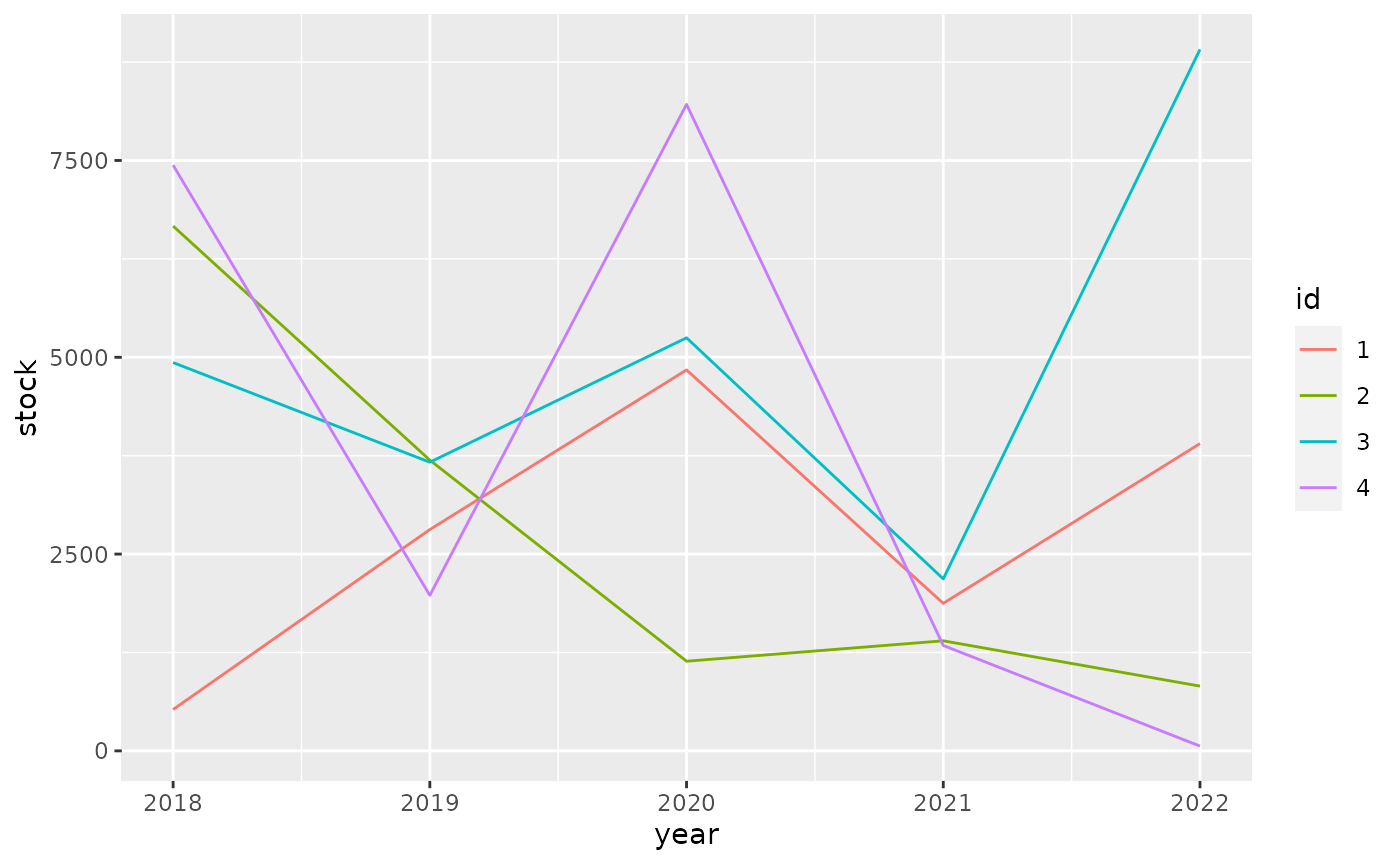
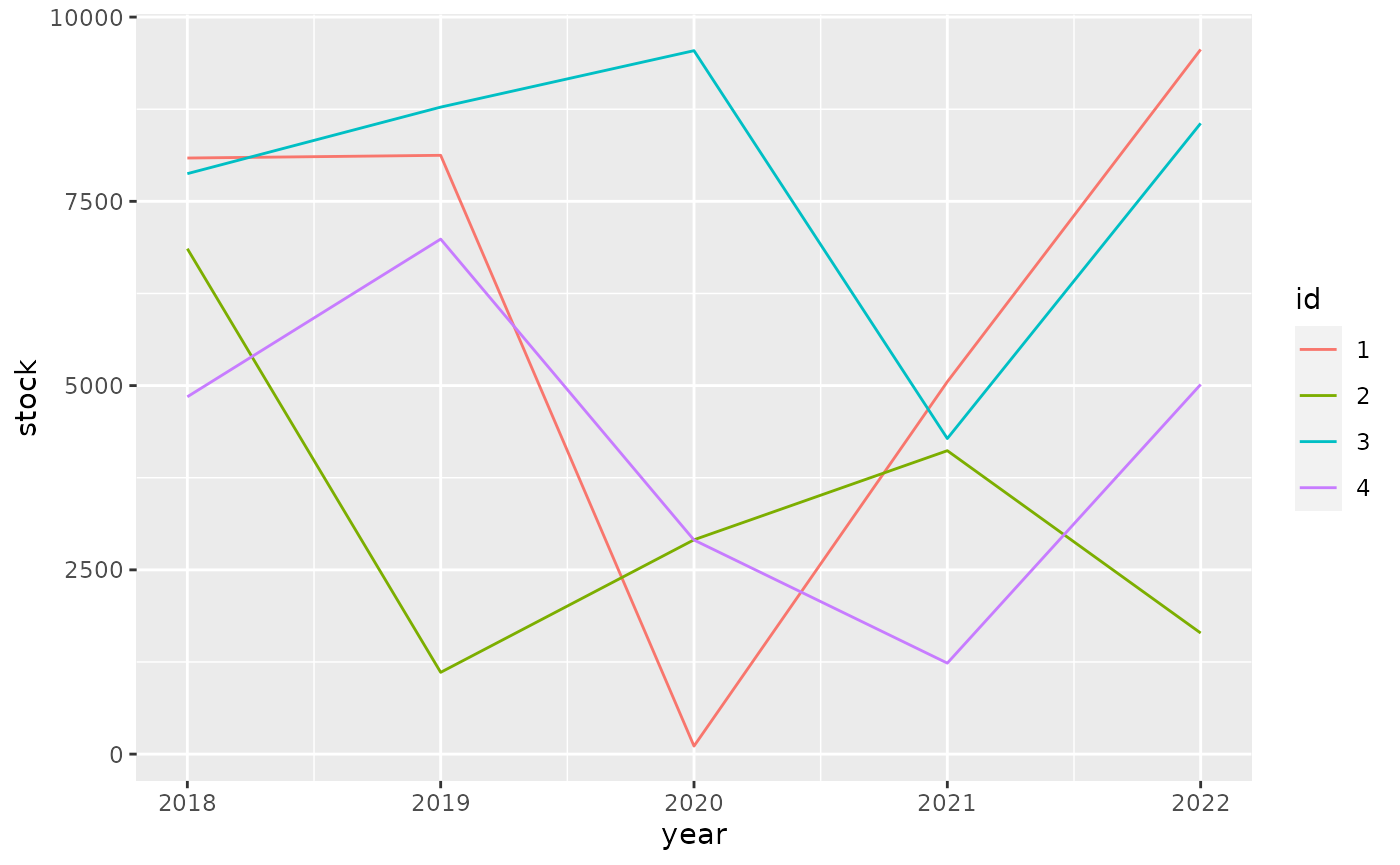
Built site for tibble: 3.1.6.9000@eac1191

diff --git a/dev/articles/formats.html b/dev/articles/formats.html
@@ -227,10 +227,10 @@
 <span class="co">#&gt; <span style="color: #949494;"># A tibble: 4 × 6</span></span>
 <span class="co">#&gt;   id       `2018`    `2019`    `2020`    `2021`    `2022`</span>
 <span class="co">#&gt;   <span style="color: #949494; font-style: italic;">&lt;fct&gt;</span> <span style="color: #949494; font-style: italic;">&lt;dbl:fmt&gt;</span> <span style="color: #949494; font-style: italic;">&lt;dbl:fmt&gt;</span> <span style="color: #949494; font-style: italic;">&lt;dbl:fmt&gt;</span> <span style="color: #949494; font-style: italic;">&lt;dbl:fmt&gt;</span> <span style="color: #949494; font-style: italic;">&lt;dbl:fmt&gt;</span></span>
-<span class="co">#&gt; <span style="color: #BCBCBC;">1</span> 1       $525.44 $2,811.53 $4,839.40 $1,874.02 $3,903.70</span>
-<span class="co">#&gt; <span style="color: #BCBCBC;">2</span> 2     $6,666.90 $3,693.87 $1,138.97 $1,398.37   $822.77</span>
-<span class="co">#&gt; <span style="color: #BCBCBC;">3</span> 3     $4,932.93 $3,667.03 $5,247.23 $2,185.03 $8,910.53</span>
-<span class="co">#&gt; <span style="color: #BCBCBC;">4</span> 4     $7,440.58 $1,975.60 $8,212.71 $1,339.21    $61.02</span></code></pre></div>
+<span class="co">#&gt; <span style="color: #BCBCBC;">1</span> 1     $8,087.59 $8,124.33   $108.99 $5,052.70 $9,560.93</span>
+<span class="co">#&gt; <span style="color: #BCBCBC;">2</span> 2     $6,857.49 $1,109.44 $2,908.09 $4,116.96 $1,642.71</span>
+<span class="co">#&gt; <span style="color: #BCBCBC;">3</span> 3     $7,875.51 $8,778.49 $9,544.35 $4,281.66 $8,558.54</span>
+<span class="co">#&gt; <span style="color: #BCBCBC;">4</span> 4     $4,848.15 $6,987.60 $2,904.87 $1,234.57 $5,015.45</span></code></pre></div>
 <p>For ggplot2 we need to do <a href="https://github.com/tidyverse/ggplot2/pull/4065" class="external-link">some work</a> to show apply the formatting to the scales.</p>
 <div class="sourceCode" id="cb6"><pre class="downlit sourceCode r">
 <code class="sourceCode R"><span class="kw"><a href="https://rdrr.io/r/base/library.html" class="external-link">library</a></span><span class="op">(</span><span class="va"><a href="https://ggplot2.tidyverse.org" class="external-link">ggplot2</a></span><span class="op">)</span>
@@ -241,10 +241,10 @@
   <span class="fu"><a href="https://ggplot2.tidyverse.org/reference/geom_path.html" class="external-link">geom_line</a></span><span class="op">(</span><span class="op">)</span></code></pre></div>
 <p><img src="formats_files/figure-html/unnamed-chunk-7-1.png" width="700"></p>
 <p>It pays off to specify formatting very early in the process. The diagram below shows the principal stages of data analysis and exploration from “R for data science”.</p>
-<div id="htmlwidget-14f0cc546a53c8bda74a" style="width:700px;height:432.632880098888px;" class="DiagrammeR html-widget"></div>
-<script type="application/json" data-for="htmlwidget-14f0cc546a53c8bda74a">{"x":{"diagram":"graph TD\n  Import --> Tidy\n  Tidy --> Transform\n  Transform --> Visualize\n  Visualize --> Communicate\n  Visualize --> Model\n  Model -.-> Transform"},"evals":[],"jsHooks":[]}</script><p>The subsequent diagram adds data formats, communication options, and explicit data formatting. The original r4ds transitions are highlighted in bold. There are two principal options where to apply formatting for results: right before communicating them, or right after importing.</p>
-<div id="htmlwidget-9ca9f599b763a5f93bd9" style="width:700px;height:432.632880098888px;" class="DiagrammeR html-widget"></div>
-<script type="application/json" data-for="htmlwidget-9ca9f599b763a5f93bd9">{"x":{"diagram":"graph TD\n  .csv --> Import\n  API --> Import\n  DBI --> Import\n  dbplyr --> Import\n  Import -.-> Format[Format for analysis]\n  Format -.-> Tidy\n\n  subgraph r4ds\n  Import ==> Tidy\n  Tidy ==> Transform\n  Transform ==> Visualize\n  Visualize ==> Model\n  Model -.-> Transform\n  Visualize ==> Communicate\n  end\n\n  Visualize -.-> FormatComm[Format for communication]\n  FormatComm -.-> Communicate\n\n  FormatComm -- Apply formatting early --> Format\n\n  dbplyr -.-> Tidy\n  dbplyr -.-> Transform\n  dbplyr -.-> Visualize\n\n  Communicate --> gt\n  Communicate --> ggplot2\n  Communicate --> DT\n  Communicate --> plotly"},"evals":[],"jsHooks":[]}</script><p>Applying formatting early in the process gives the added benefit of showing the data in a useful format during the “Tidy”, “Transform”, and “Visualize” stages. For this to be useful, we need to ensure that the formatting options applied early:</p>
+<div id="htmlwidget-a16630c94632f841b6f7" style="width:700px;height:432.632880098888px;" class="DiagrammeR html-widget"></div>
+<script type="application/json" data-for="htmlwidget-a16630c94632f841b6f7">{"x":{"diagram":"graph TD\n  Import --> Tidy\n  Tidy --> Transform\n  Transform --> Visualize\n  Visualize --> Communicate\n  Visualize --> Model\n  Model -.-> Transform"},"evals":[],"jsHooks":[]}</script><p>The subsequent diagram adds data formats, communication options, and explicit data formatting. The original r4ds transitions are highlighted in bold. There are two principal options where to apply formatting for results: right before communicating them, or right after importing.</p>
+<div id="htmlwidget-93e225fbf56dafe59ba6" style="width:700px;height:432.632880098888px;" class="DiagrammeR html-widget"></div>
+<script type="application/json" data-for="htmlwidget-93e225fbf56dafe59ba6">{"x":{"diagram":"graph TD\n  .csv --> Import\n  API --> Import\n  DBI --> Import\n  dbplyr --> Import\n  Import -.-> Format[Format for analysis]\n  Format -.-> Tidy\n\n  subgraph r4ds\n  Import ==> Tidy\n  Tidy ==> Transform\n  Transform ==> Visualize\n  Visualize ==> Model\n  Model -.-> Transform\n  Visualize ==> Communicate\n  end\n\n  Visualize -.-> FormatComm[Format for communication]\n  FormatComm -.-> Communicate\n\n  FormatComm -- Apply formatting early --> Format\n\n  dbplyr -.-> Tidy\n  dbplyr -.-> Transform\n  dbplyr -.-> Visualize\n\n  Communicate --> gt\n  Communicate --> ggplot2\n  Communicate --> DT\n  Communicate --> plotly"},"evals":[],"jsHooks":[]}</script><p>Applying formatting early in the process gives the added benefit of showing the data in a useful format during the “Tidy”, “Transform”, and “Visualize” stages. For this to be useful, we need to ensure that the formatting options applied early:</p>
 <ul>
 <li>give a good user experience for analysis
 <ul>

diff --git a/dev/articles/types.html b/dev/articles/types.html
@@ -357,8 +357,8 @@
 <span class="co">#&gt; $ `named list`  <span style="color: #949494; font-style: italic;">&lt;named list&gt;</span> 1</span>
 <span class="co">#&gt; $ factor        <span style="color: #949494; font-style: italic;">&lt;fct&gt;</span> A</span>
 <span class="co">#&gt; $ ordered       <span style="color: #949494; font-style: italic;">&lt;ord&gt;</span> a</span>
-<span class="co">#&gt; $ Date          <span style="color: #949494; font-style: italic;">&lt;date&gt;</span> 2021-10-27</span>
-<span class="co">#&gt; $ POSIXt        <span style="color: #949494; font-style: italic;">&lt;dttm&gt;</span> 2021-10-27 16:52:42</span>
+<span class="co">#&gt; $ Date          <span style="color: #949494; font-style: italic;">&lt;date&gt;</span> 2021-10-28</span>
+<span class="co">#&gt; $ POSIXt        <span style="color: #949494; font-style: italic;">&lt;dttm&gt;</span> 2021-10-28 01:51:57</span>
 <span class="co">#&gt; $ difftime      <span style="color: #949494; font-style: italic;">&lt;drtn&gt;</span> 1 secs</span>
 <span class="co">#&gt; $ hms           <span style="color: #949494; font-style: italic;">&lt;time&gt;</span> 00:00:01</span>
 <span class="co">#&gt; $ integer64     <span style="color: #949494; font-style: italic;">&lt;int64&gt;</span> 10000000000</span>
@@ -394,7 +394,7 @@
 <span class="co">#&gt;             "sym"</span>
 <span class="co">#&gt;         }, typeof(x))</span>
 <span class="co">#&gt; }</span>
-<span class="co">#&gt; &lt;bytecode: 0x5584130d7528&gt;</span>
+<span class="co">#&gt; &lt;bytecode: 0x55e1fdad5758&gt;</span>
 <span class="co">#&gt; &lt;environment: namespace:pillar&gt;</span></code></pre></div>
 </div>
   </div>
